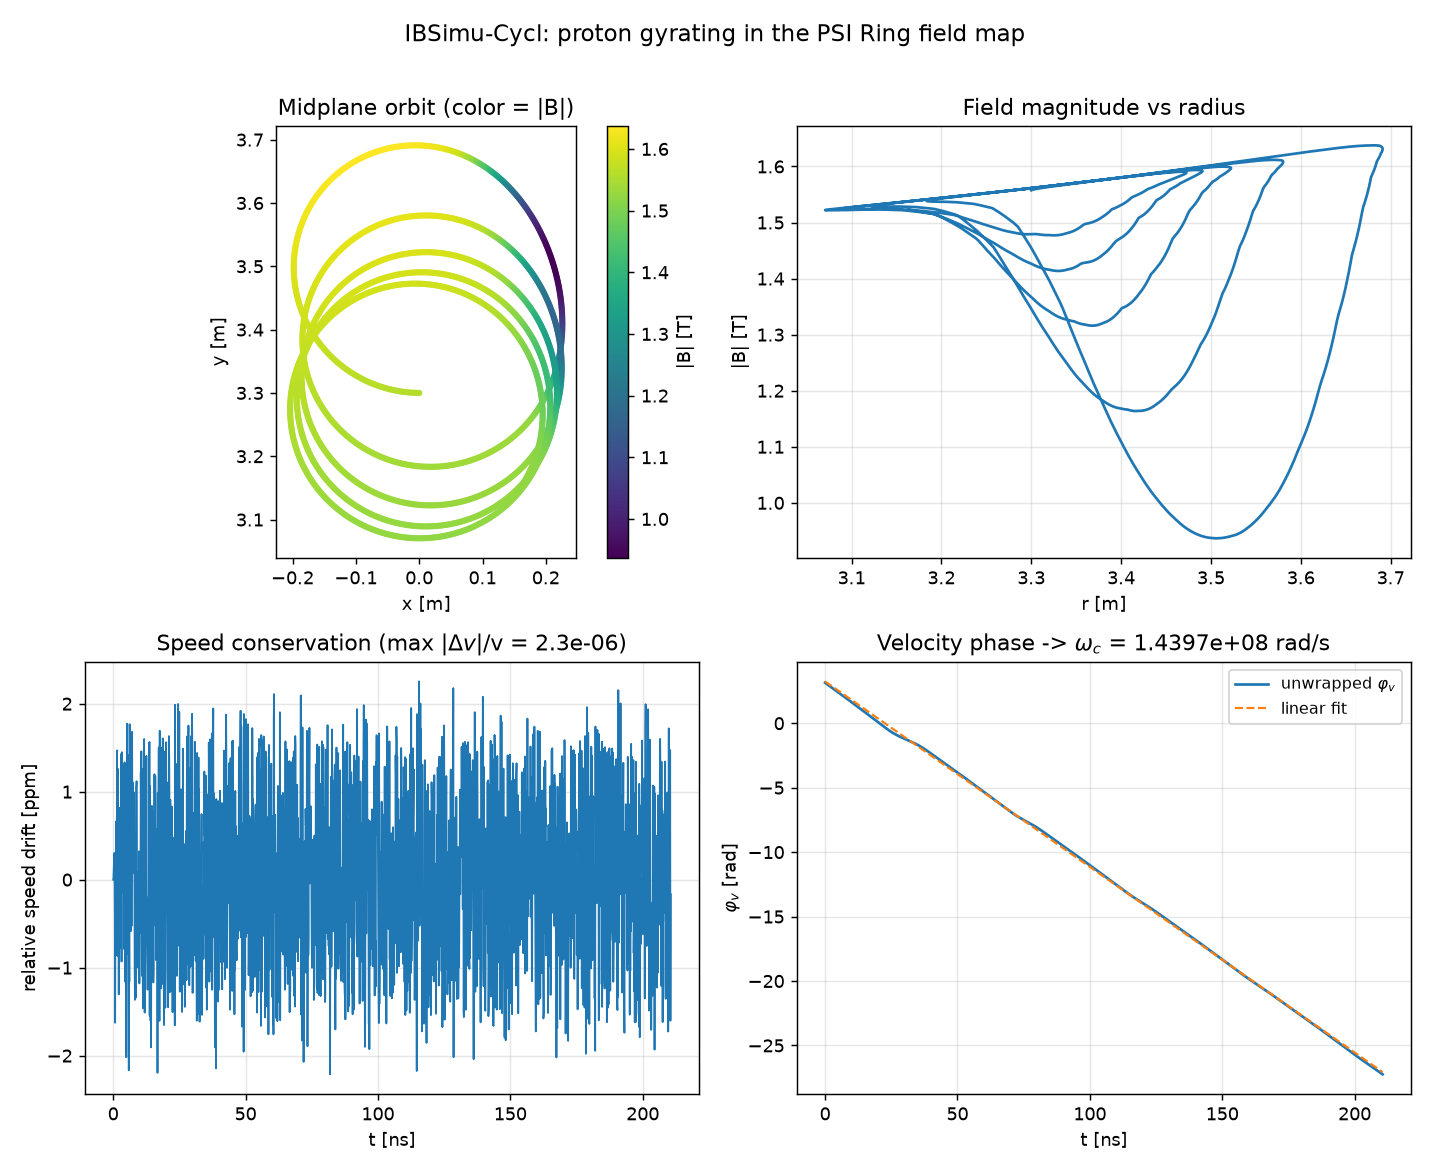
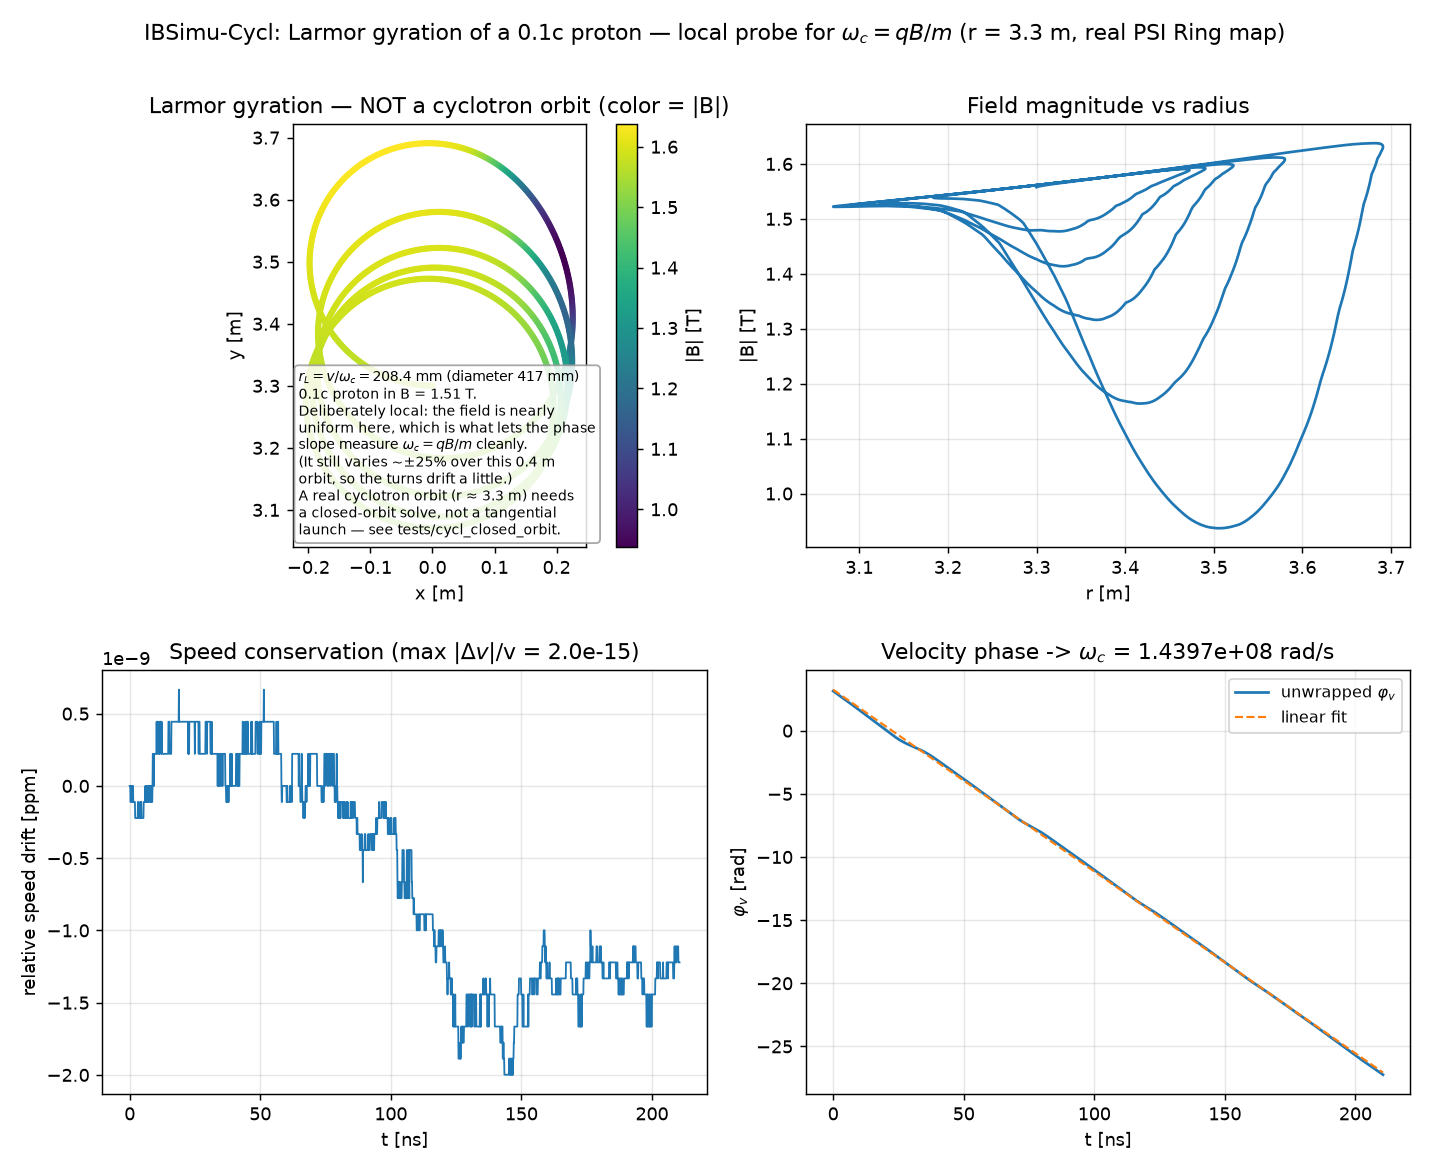
fix(viz): redraw the two cyclotron figures with correct physics
4889c6d corrected the README text but left the figures themselves showing the old, wrong content. Both are regenerated.

- cyclotron_real_orbit.png: plot_relativistic_orbit.py now takes both the unmatched launch (cycl_relativistic.csv) and the closed orbit (cycl_closed_orbit.vtp) and overlays them. The contrast is the point: the unmatched launch wanders over 0.62 m and every turn is a different curve, while the closed orbit repeats with only the 0.14 m physical scalloping. A new panel plots r(t) for both, which makes the difference immediately visible.
- cyclotron_orbit.png: labelled as what it actually is, a Larmor gyration (r_L = 208 mm for a 0.1c proton), explicitly "NOT a cyclotron orbit", with an annotation explaining why it is deliberately local and pointing at the closed-orbit solve for a machine-scale orbit.
- cycl_track.cpp wrote the CSV with the default 6 significant digits, which quantised the velocity to ~1e-6. The speed-conservation panel therefore showed +-2 ppm of jitter while the test itself reported 1.6e-15 from the in-memory values. Writing with setprecision(17) fixes it; the CSV now reproduces 2.0e-15.

make check: 35/35.

diff --git a/examples/cyclotron/plot_relativistic_orbit.py b/examples/cyclotron/plot_relativistic_orbit.py
@@ -1,12 +1,20 @@
 #!/usr/bin/env python3
-"""可视化真实 PSI Ring 场强下的相对论回旋轨道（cycl_relativistic.csv）。
+"""可视化真实 PSI Ring 场强下的相对论回旋轨道（含闭合轨道对比）。
+
+数据来源::
+
+    ./tests/cycl_relativistic     # -> cycl_relativistic.csv（朴素发射：不闭合）
+    ./tests/cycl_closed_orbit     # -> cycl_closed_orbit.vtp（闭合轨道＝不动点）
 
 用法::
 
-    ./tests/cycl_relativistic          # 写出 cycl_relativistic.csv
-    python3 plot_relativistic_orbit.py [-o cyclotron_real_orbit.png]
+    python3 plot_relativistic_orbit.py \\
+        --naive cycl_relativistic.csv --closed cycl_closed_orbit.vtp \\
+        -o docs/img/cyclotron_real_orbit.png
 
-列：t,x,y,z,gamma,r,Bmag
+图的核心信息：**朴素发射（r=3.3 m 纯切向）不是闭合轨道**——径向摆动 0.62 m，
+相邻两圈在同一方位角上的半径差达 0.24 m，每圈都走一条新曲线（看起来“轨道重叠”）；
+而数值求出的闭合轨道（单圈映射的不动点）每圈重复，摆动只有真实的 8 折扇贝调制。
 
 IBSimu-Cycl is a derivative work of IBSimu, licensed under GPL-3.0-or-later.
 """
@@ -16,59 +24,111 @@ from __future__ import annotations
 import argparse
 import os
 import sys
+from pathlib import Path
 
 import numpy as np
 import matplotlib
 matplotlib.use("Agg")
 import matplotlib.pyplot as plt
 
+ROOT = Path(__file__).resolve().parents[2]
+sys.path.insert(0, str(ROOT / "python"))
+
+from ibsimu_cycl.vtk_io import read  # noqa: E402
+
 
 def main(argv=None):
     ap = argparse.ArgumentParser()
-    ap.add_argument("csv", nargs="?", default="cycl_relativistic.csv")
+    ap.add_argument("--naive", default="cycl_relativistic.csv",
+                    help="朴素发射轨迹 CSV（tests/cycl_relativistic 输出）")
+    ap.add_argument("--closed", default="cycl_closed_orbit.vtp",
+                    help="闭合轨道 VTP（tests/cycl_closed_orbit 输出）")
     ap.add_argument("-o", "--output", default="cyclotron_real_orbit.png")
     args = ap.parse_args(argv)
 
-    if not os.path.exists(args.csv):
-        print(f"{args.csv} not found; run ./tests/cycl_relativistic first")
+    if not os.path.exists(args.naive):
+        print(f"{args.naive} not found; run ./tests/cycl_relativistic first")
         return 1
 
-    d = np.loadtxt(args.csv, delimiter=",", comments="#", skiprows=1)
-    c = {k: d[:, i] for i, k in enumerate(["t", "x", "y", "z", "gamma", "r", "Bmag"])}
+    d = np.loadtxt(args.naive, delimiter=",", comments="#", skiprows=1)
+    c = {k: d[:, i] for i, k in
+         enumerate(["t", "x", "y", "z", "gamma", "r", "Bmag"])}
 
-    fig, ax = plt.subplots(2, 2, figsize=(11, 9))
+    closed = None
+    if os.path.exists(args.closed):
+        pd = read(args.closed)
+        closed = { "x": pd.points[:, 0], "y": pd.points[:, 1],
+                   "t": pd.arrays["t"] }
+    else:
+        print(f"warning: {args.closed} not found; run ./tests/cycl_closed_orbit "
+              "for the closed-orbit comparison")
 
-    s = ax[0, 0].scatter(c["x"], c["y"], c=c["Bmag"], s=4, cmap="viridis")
-    ax[0, 0].set_aspect("equal")
-    ax[0, 0].set_xlabel("x [m]")
-    ax[0, 0].set_ylabel("y [m]")
-    ax[0, 0].set_title("Real PSI Ring orbit (color = |B|)")
-    fig.colorbar(s, ax=ax[0, 0], label="|B| [T]")
+    fig, ax = plt.subplots(2, 2, figsize=(12, 10))
 
-    ax[0, 1].plot(c["t"]*1e9, c["r"], lw=1.2)
-    ax[0, 1].set_xlabel("t [ns]")
-    ax[0, 1].set_ylabel("r [m]")
-    ax[0, 1].set_title(f"Orbit radius (bounded, mean {c['r'].mean():.3f} m)")
-    ax[0, 1].grid(True, alpha=0.3)
+    # --- (0,0) 两种轨道的直接对比 ---
+    a = ax[0, 0]
+    sc = a.scatter(c["x"], c["y"], c=c["Bmag"], s=4, cmap="viridis",
+                   label="unmatched launch (turns do not repeat)")
+    if closed is not None:
+        a.plot(closed["x"], closed["y"], color="#ff3b30", lw=2.2,
+               label="closed orbit = fixed point of the sector map")
+        a.plot(closed["x"][0], closed["y"][0], "o", color="white",
+               markeredgecolor="#ff3b30", ms=9, zorder=5)
+    a.set_aspect("equal")
+    a.set_xlabel("x [m]")
+    a.set_ylabel("y [m]")
+    a.set_title("Real PSI Ring field: unmatched launch vs closed orbit\n"
+                "(marker = start point at r = 3.30 m)")
+    a.legend(loc="upper right", fontsize=8)
+    fig.colorbar(sc, ax=a, label="|B| [T]", shrink=0.85)
 
-    ax[1, 0].plot(c["t"]*1e9, c["gamma"], lw=1.2)
-    ax[1, 0].set_xlabel("t [ns]")
-    ax[1, 0].set_ylabel(r"$\gamma$")
-    ax[1, 0].set_title(r"$\gamma$ conserved (relativistic Boris, drift {:.1e})".format(
+    # --- (0,1) 半径随时间：直观显示“逐圈不重合” ---
+    a = ax[0, 1]
+    a.plot(c["t"]*1e9, c["r"], lw=1.0, color="#1f77b4",
+           label=f"unmatched launch (span {c['r'].max()-c['r'].min():.2f} m)")
+    if closed is not None:
+        rr = np.hypot(closed["x"], closed["y"])
+        a.plot(closed["t"]*1e9, rr, lw=1.6, color="#ff3b30",
+               label=f"closed orbit (span {rr.max()-rr.min():.2f} m)")
+    a.set_xlabel("t [ns]")
+    a.set_ylabel("r [m]")
+    a.set_title("Orbit radius: the unmatched launch wanders over 0.62 m")
+    a.grid(True, alpha=0.3)
+    a.legend(fontsize=8)
+
+    # --- (1,0) gamma 守恒 ---
+    a = ax[1, 0]
+    a.plot(c["t"]*1e9, c["gamma"], lw=1.2)
+    a.set_xlabel("t [ns]")
+    a.set_ylabel(r"$\gamma$")
+    a.set_title(r"$\gamma$ conserved (relativistic Boris, drift {:.1e})".format(
         np.abs(c["gamma"]/c["gamma"][0] - 1).max()))
-    ax[1, 0].grid(True, alpha=0.3)
+    a.grid(True, alpha=0.3)
 
-    ax[1, 1].plot(c["t"]*1e9, c["Bmag"], lw=0.8)
-    ax[1, 1].set_xlabel("t [ns]")
-    ax[1, 1].set_ylabel("|B| [T]")
-    ax[1, 1].set_title("Field seen along the orbit (8-sector ripple)")
-    ax[1, 1].grid(True, alpha=0.3)
+    # --- (1,1) 沿轨道的场强 ---
+    a = ax[1, 1]
+    a.plot(c["t"]*1e9, c["Bmag"], lw=0.8)
+    a.set_xlabel("t [ns]")
+    a.set_ylabel("|B| [T]")
+    a.set_title("Field along the orbit: 8 separated sectors\n"
+                "(poles cover only ~19 deg of each 45 deg)")
+    a.grid(True, alpha=0.3)
 
-    fig.suptitle("IBSimu-Cycl: relativistic proton in the real PSI Ring field", fontsize=13)
-    fig.tight_layout(rect=[0, 0, 1, 0.97])
-    fig.savefig(args.output, dpi=130)
-    print(f"saved: {args.output}")
-    print(f"points: {len(c['t'])}  <B>={c['Bmag'].mean():.4f} T  gamma={c['gamma'][0]:.4f}")
+    fig.suptitle("IBSimu-Cycl: relativistic proton in the real PSI Ring field",
+                 fontsize=13)
+    fig.tight_layout(rect=[0, 0, 1, 0.96])
+
+    out = Path(args.output)
+    out.parent.mkdir(parents=True, exist_ok=True)
+    fig.savefig(out, dpi=130)
+    print(f"saved: {out}")
+    print(f"unmatched : r = {c['r'].min():.4f} .. {c['r'].max():.4f} m "
+          f"(span {c['r'].max()-c['r'].min():.4f} m), "
+          f"<|B|>={c['Bmag'].mean():.4f} T, gamma={c['gamma'][0]:.4f}")
+    if closed is not None:
+        rr = np.hypot(closed["x"], closed["y"])
+        print(f"closed    : r = {rr.min():.4f} .. {rr.max():.4f} m "
+              f"(span {rr.max()-rr.min():.4f} m)")
     return 0
 
 

diff --git a/examples/cyclotron/plot_trajectory.py b/examples/cyclotron/plot_trajectory.py
@@ -63,7 +63,23 @@ def main(argv=None):
     ax[0, 0].set_aspect("equal")
     ax[0, 0].set_xlabel("x [m]")
     ax[0, 0].set_ylabel("y [m]")
-    ax[0, 0].set_title("Midplane orbit (color = |B|)")
+    ax[0, 0].set_title("Larmor gyration — NOT a cyclotron orbit (color = |B|)")
+    # 说清楚这是“局部探针”，不是绕机器中心的轨道
+    r_larmor = float(np.mean(speed))/omega
+    ax[0, 0].annotate(
+        "$r_L = v/\\omega_c = %.1f$ mm (diameter %.0f mm)\n"
+        "0.1c proton in B = %.2f T.\n"
+        "Deliberately local: the field is nearly\n"
+        "uniform here, which is what lets the phase\n"
+        "slope measure $\\omega_c=qB/m$ cleanly.\n"
+        "(It still varies ~±25%% over this 0.4 m\n"
+        "orbit, so the turns drift a little.)\n"
+        "A real cyclotron orbit (r ≈ 3.3 m) needs\n"
+        "a closed-orbit solve, not a tangential\n"
+        "launch — see tests/cycl_closed_orbit."
+        % (r_larmor*1e3, 2.0*r_larmor*1e3, float(np.mean(c["Bmag"]))),
+        xy=(0.02, 0.02), xycoords="axes fraction", fontsize=7.5, va="bottom",
+        bbox=dict(boxstyle="round", fc="white", ec="0.6", alpha=0.85))
     fig.colorbar(s0, ax=ax[0, 0], label="|B| [T]")
 
     ax[0, 1].plot(r, c["Bmag"], lw=1.5)
@@ -87,7 +103,8 @@ def main(argv=None):
     ax[1, 1].legend(fontsize=9)
     ax[1, 1].grid(True, alpha=0.3)
 
-    fig.suptitle("IBSimu-Cycl: proton gyrating in the PSI Ring field map", fontsize=13)
+    fig.suptitle("IBSimu-Cycl: Larmor gyration of a 0.1c proton — local probe "
+                 "for $\\omega_c=qB/m$ (r = 3.3 m, real PSI Ring map)", fontsize=12)
     fig.tight_layout(rect=[0, 0, 1, 0.97])
     fig.savefig(args.output, dpi=130)
 

diff --git a/tests/cycl_track.cpp b/tests/cycl_track.cpp
@@ -16,6 +16,7 @@
 #include <cmath>
 #include <cstdio>
 #include <fstream>
+#include <iomanip>
 #include <memory>
 #include <string>
 #include <vector>
@@ -165,6 +166,9 @@ int main( int argc, char **argv )
     // --- CSV ---
     {
         std::ofstream f( (prefix + ".csv").c_str() );
+        // 全精度写出：默认的 6 位有效数字会把速度量化到 ~1e-6，
+        // 在“速率守恒”图上表现为假的 ppm 级漂移（实际是机器精度 1e-15）。
+        f << std::setprecision( 17 );
         f << "# IBSimu-Cycl proton trajectory (PSI Ring field map)\n";
         f << "t,x,y,z,vx,vy,vz,Bmag\n";
         for( std::size_t i = 0; i < traj.size(); ++i ) {

diff --git a/examples/cyclotron/README.md b/examples/cyclotron/README.md
@@ -27,7 +27,7 @@ P2/P3/P4 阶段再导入实际输入文件与场图。
 | --- | --- | --- |
 | `plot_trajectory.py` | `tests/cycl_track.csv` | `cyclotron_orbit.png`（xy 轨道/\|B\|/速率/相位 2×2） |
 | `plot_acceleration.py` | `tests/cycl_accel.csv` | `cyclotron_acceleration.png` |
-| `plot_relativistic_orbit.py` | `tests/cycl_relativistic.csv` | `cyclotron_real_orbit.png`（相对论、真实场强） |
+| `plot_relativistic_orbit.py` | `tests/cycl_relativistic.csv` + `tests/cycl_closed_orbit.vtp` | `cyclotron_real_orbit.png`（**未匹配初值 vs 闭合轨道**对比） |
 | **`plot_field_map.py`** | `tests/cycl_track_map.vti` + `cycl_track.vtp` | **`docs/img/cyclotron_field_map.png`（整机中场图 + 五圈轨道）** |
 | `view_3d.py` | 任意 `.vti` / `.vtp` | 三维交互视图或 PNG（需 `pyvista`） |
 
@@ -35,7 +35,11 @@ P2/P3/P4 阶段再导入实际输入文件与场图。
 
 ```bash
 make -C tests cycl_track && ./tests/cycl_track        # 生成 CSV / VTK XML
+make -C tests cycl_closed_orbit && ./tests/cycl_closed_orbit   # 闭合轨道 .vtp
 python3 examples/cyclotron/plot_field_map.py          # 整机中场图 + 轨道图
+python3 examples/cyclotron/plot_relativistic_orbit.py \
+    --naive tests/cycl_relativistic.csv --closed tests/cycl_closed_orbit.vtp \
+    -o docs/img/cyclotron_real_orbit.png              # 闭合轨道对比图
 python3 examples/cyclotron/view_3d.py tests/cycl_track_field.vti tests/cycl_track.vtp
 ```
 

diff --git a/README.md b/README.md
@@ -151,10 +151,15 @@ python3 examples/cyclotron/plot_trajectory.py cycl_track.csv -o docs/img/cyclotr
 
 ![real orbit](docs/img/cyclotron_real_orbit.png)
 
-> ❗ **这张图里的轨道不可信——它只是一条「有界但未闭合」的发射轨迹**（见下一节）。
-> 图中「轨道重叠」不是画图问题：相邻两圈在**同一方位角**上的半径差达 **0.24 m**，
-> 即每次回旋都走一条全新曲线；径向摆动 ±9.5%，比物理上的扇贝调制大一个量级。
-> 原因是初值选取（在 $r=3.3$ m 处纯切向发射）**不是闭合轨道**。
+图中对比了两种轨道：
+
+- **散布的彩色点**：在 $r=3.3$ m 处纯切向发射的轨迹。它**有界但不闭合**——
+  相邻两圈在**同一方位角**上的半径差达 **0.24 m**，每次回旋都走一条全新曲线
+  （径向摆动 0.62 m，比物理扇贝调制大一个量级）。这就是之前“轨道重叠”的来源。
+- **红色实线**：数值求出的**闭合轨道**（单圈映射的不动点），逐圈重复，
+  摆动只有 **0.14 m**——即真实的 8 折扇贝调制。求法与判据见下一节。
+
+右下可见轨道每经过一个分离扇区时 $|B|$ 在 1.6 T（磁极）与 ~0（漂移段）之间变化。
 
 > 这解除了 P4 的限制：**真实场强下的 PSI Ring 现在可以直接跟踪**，无需整体缩放。
 
